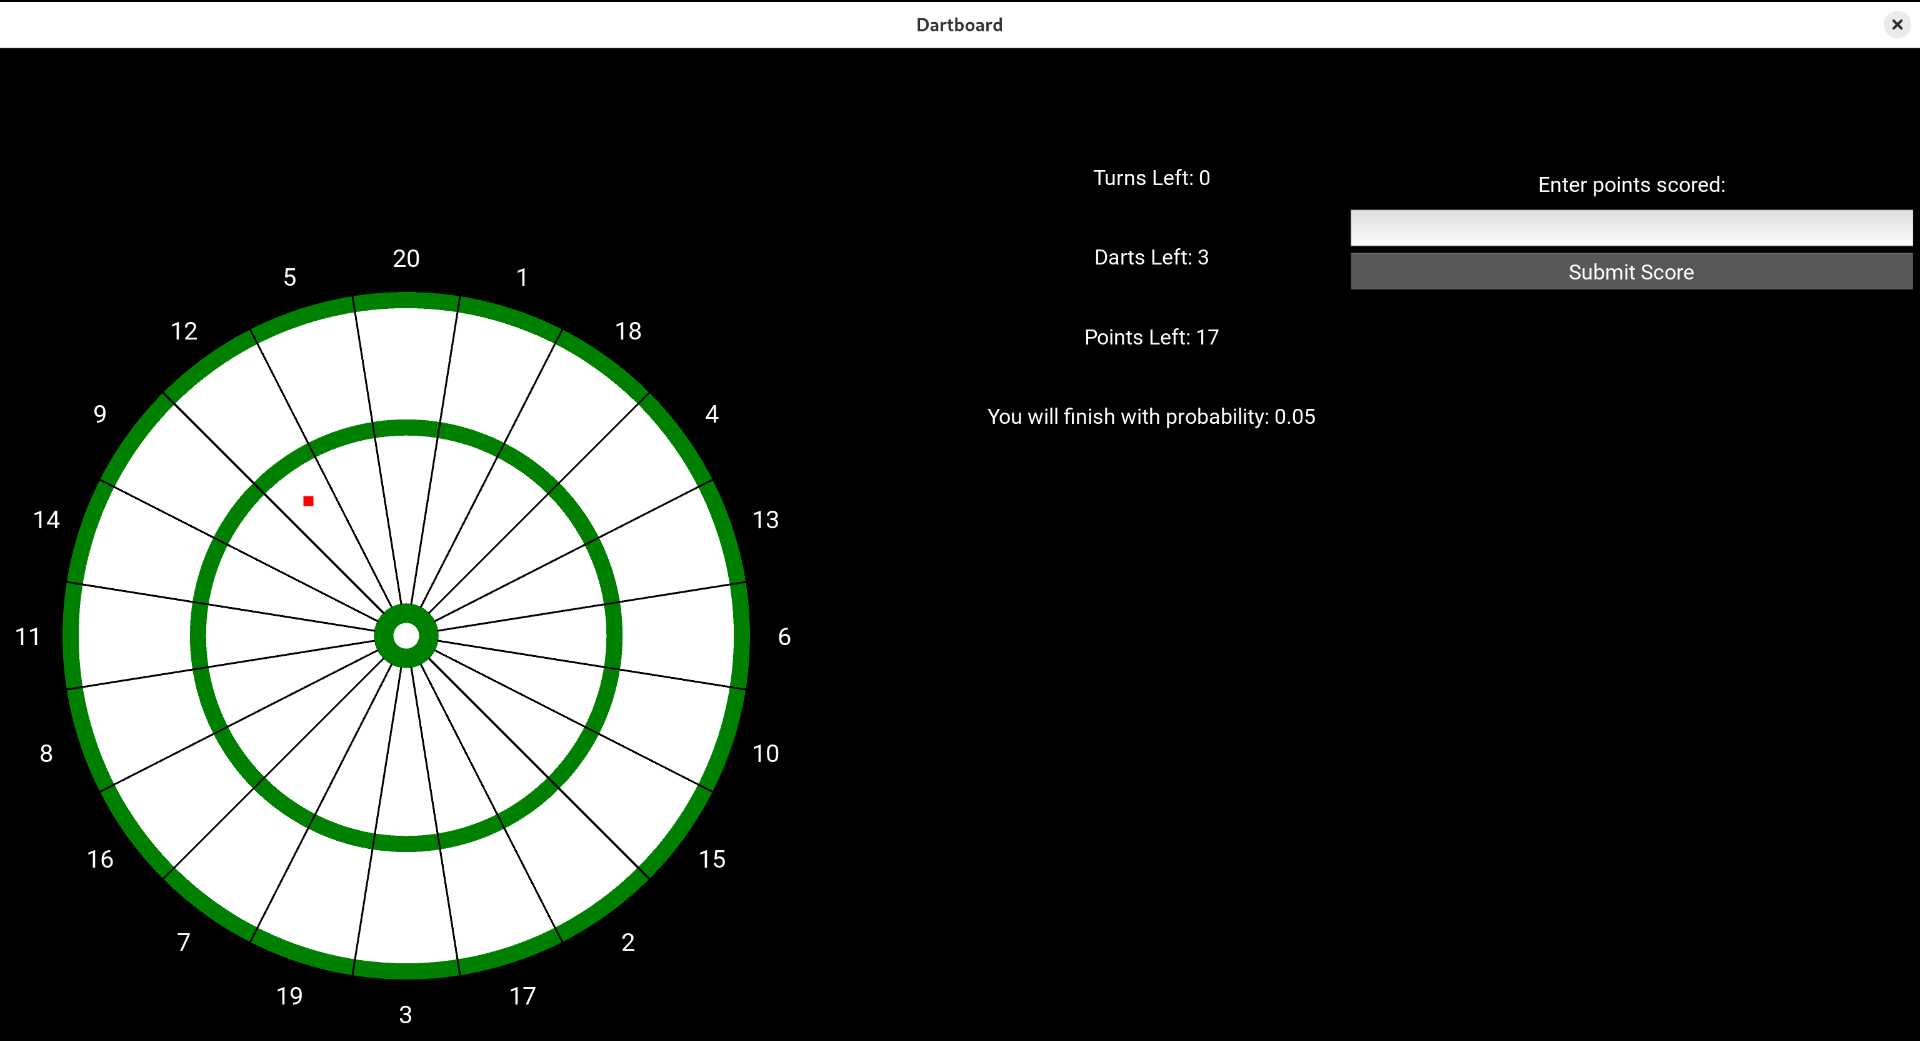
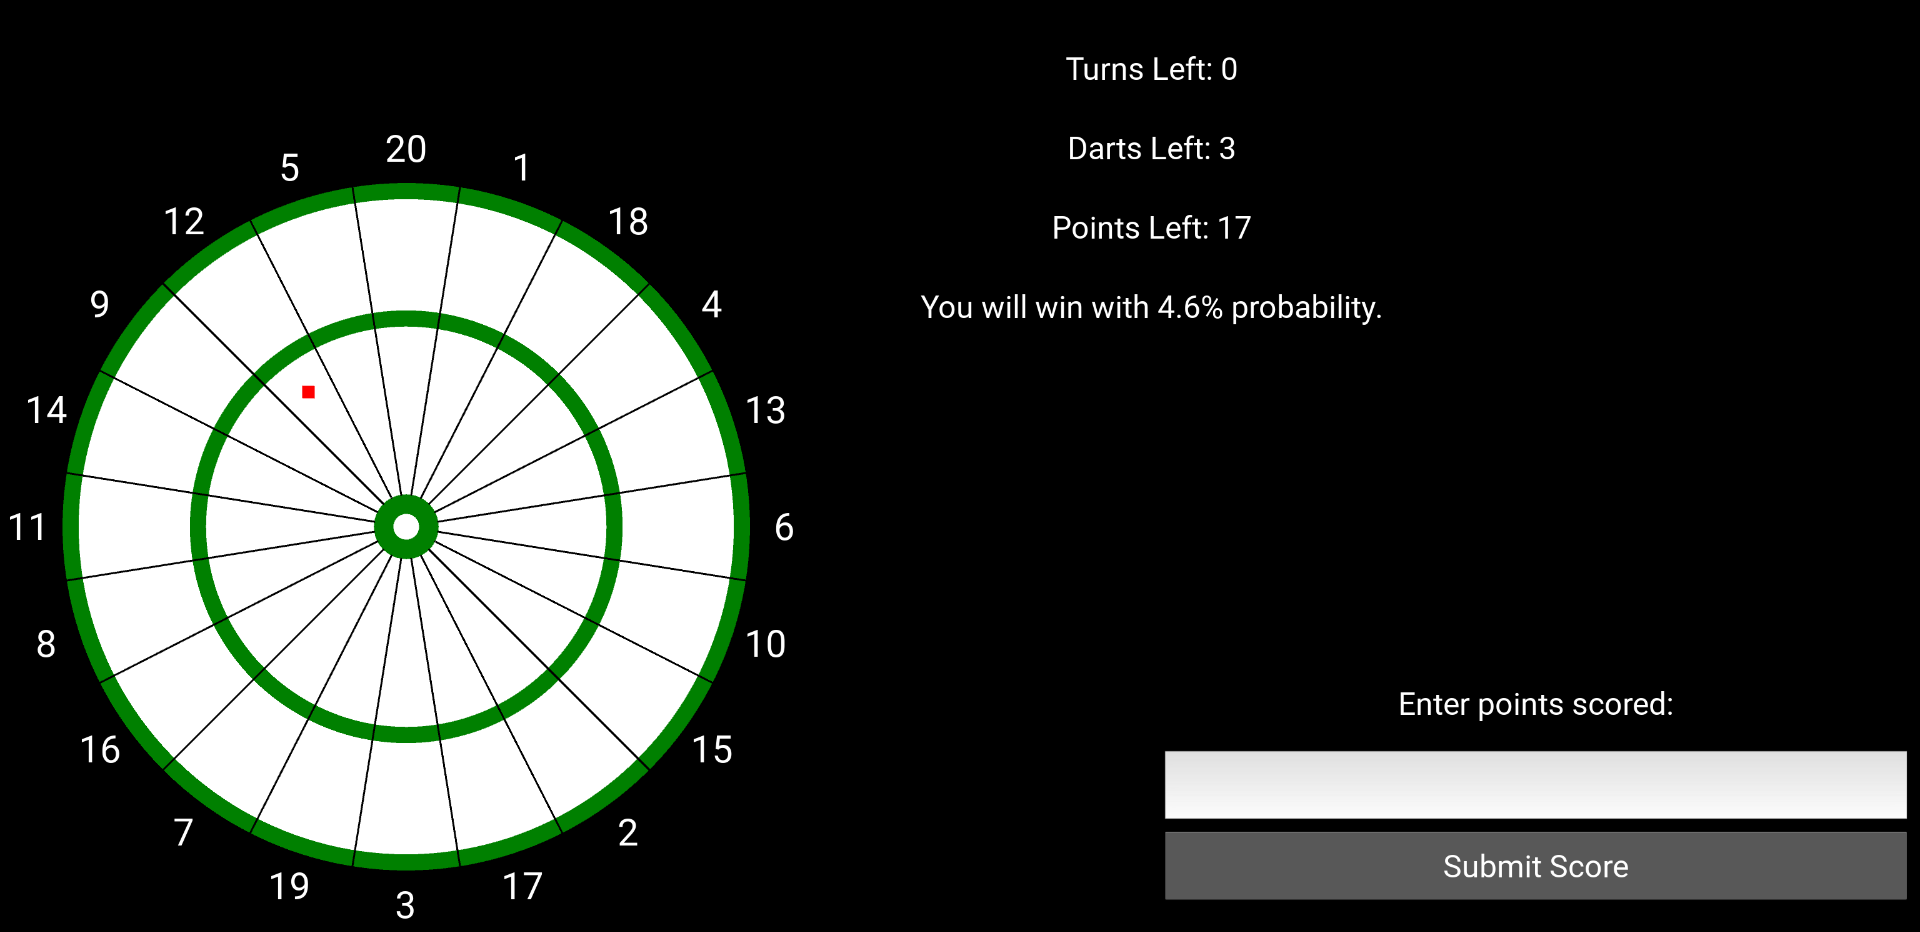
Updating visualisations in README

diff --git a/util/heatmap.py b/util/heatmap.py
@@ -36,7 +36,7 @@ def plot_heatmap_from_cartesian_data(data, radiuses=radiuses):
     cbar.set_label('Probability of winning', fontsize=30)
     cbar.ax.tick_params(labelsize=24)
     # Make ticks into percentage 0.05 -> 5%
-    cbar.ax.set_yticklabels(['{:.0f}%'.format(i*100) for i in cbar.get_ticks()], fontsize=24)
+    cbar.ax.set_yticklabels(['{:.1f}%'.format(i*100) for i in cbar.get_ticks()], fontsize=24)
 
     # Add circular lines at specified radii
     if radiuses:

diff --git a/README.md b/README.md
@@ -5,7 +5,7 @@ This repository presents a simple example of how uncertainty can be handled in o
 
 # Darts Strategy Optimiser
 
-Playing darts with your friends and want to maximise your chances of winning? This repo is for you ^disclaimer.
+Playing darts with your friends and want to maximise your chances of winning? This repo is for you [see Disclaimer](#disclaimer).
 
 ### Finding your skill
 
@@ -42,4 +42,10 @@ python dartboard.py
 
 ```
 
-disclaimer: This repository is used only to illustrate the technology used to optimise under uncertanty. If you want a program for a more realistic scenario (i.e. having an oponent), please contact the owner of the repository.
+Playing darts with your friends and want to maximise your chances of winning? This repo is for you ([see Disclaimer](#disclaimer)).
+
+...
+
+#### Disclaimer
+
+This repository is used only to illustrate the technology used to optimise under uncertanty. If you want a program for a more realistic scenario (i.e. having an oponent), please contact the owner of the repository.
